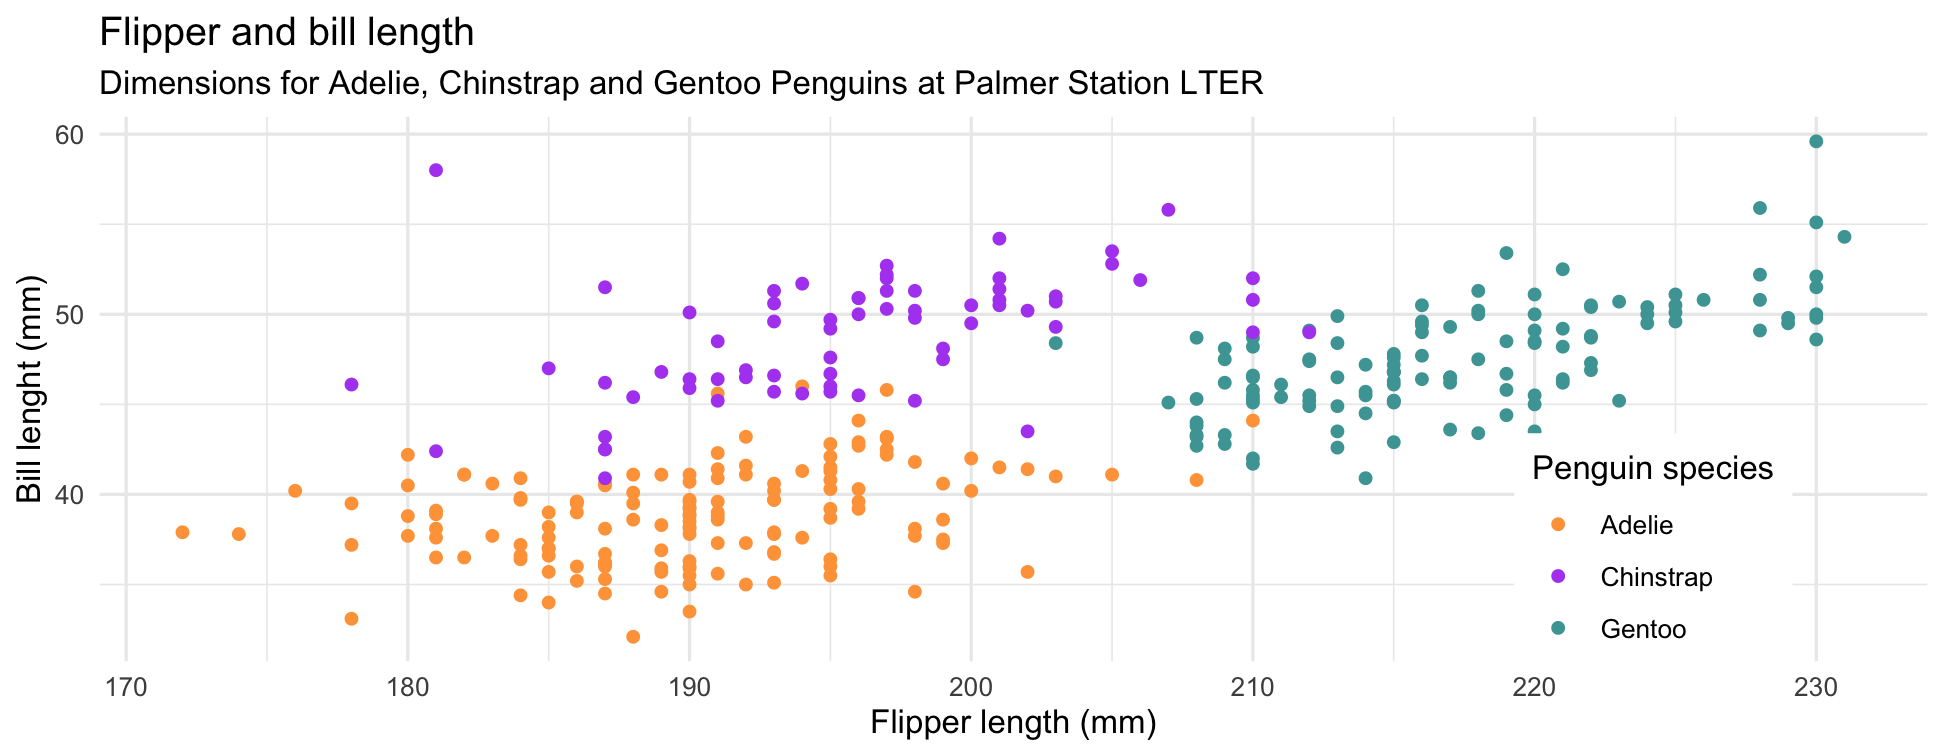
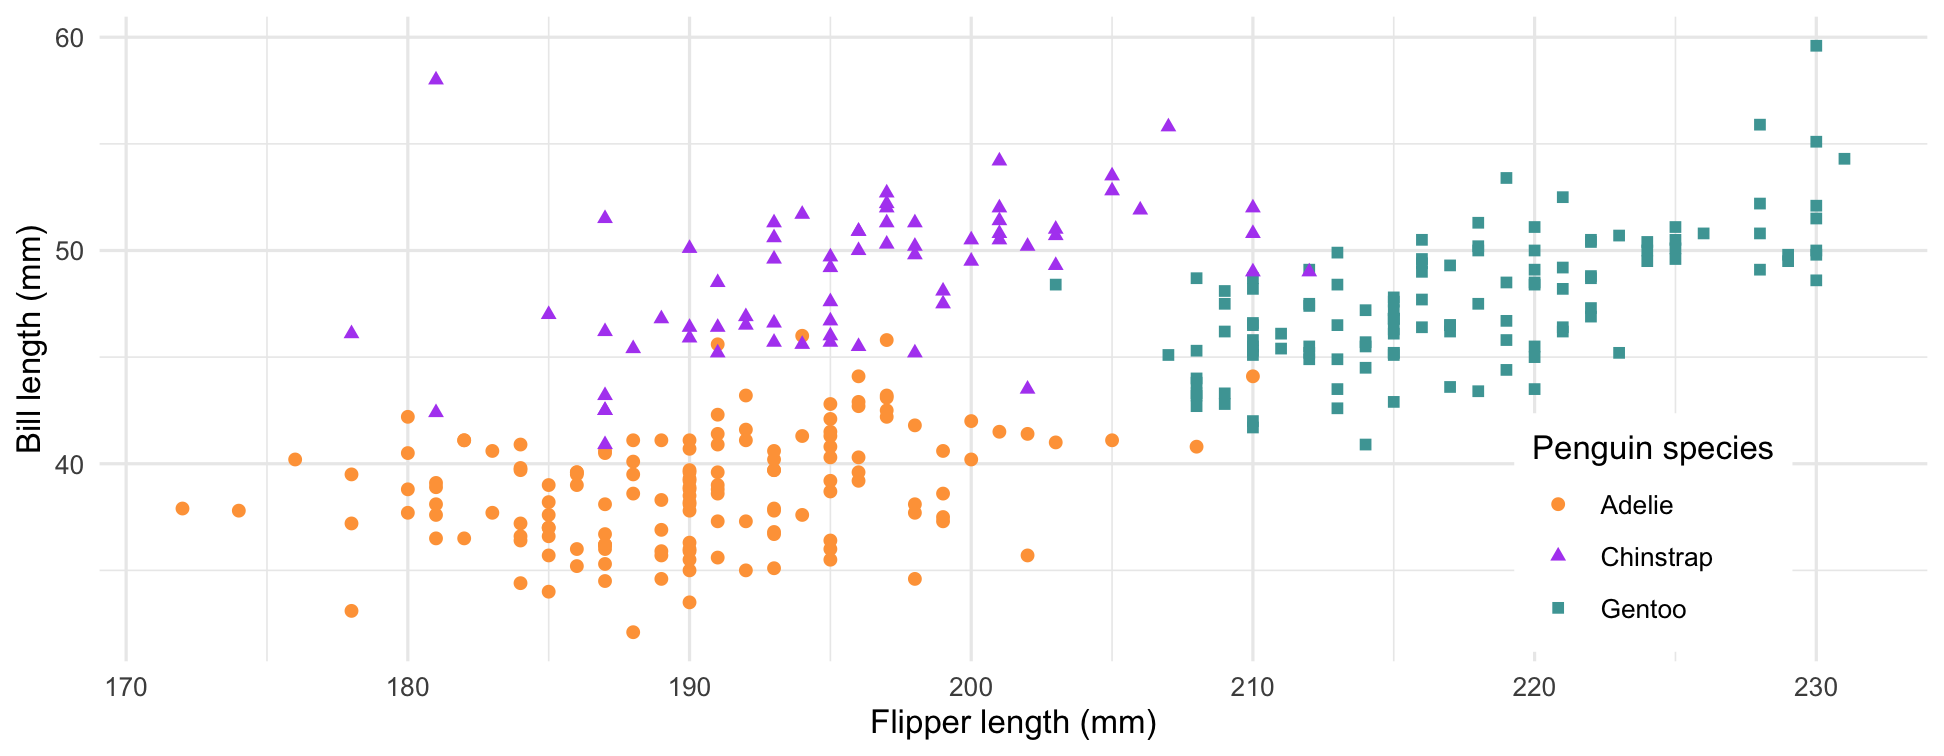
added placeholder for layouts & themes

diff --git a/index.html b/index.html
@@ -338,7 +338,7 @@ Here, we'll add our first reactive object to our app and establish a general Shi
 ---
 ### Let's first add some text to our app
 
-&lt;span style = 'font-size:80%;'&gt;We'll do this in the **UI** within `fluidPage()`, a layout function that sets up the basic visual structure of the page and scales components in real time to fill all available browser width. Add a title and subtitle to your app, save, and run:&lt;/span&gt;
+&lt;span style = 'font-size:80%;'&gt;We'll do this in the **UI** within `fluidPage()`, a layout function that sets up the basic visual structure of the page and scales components in real time to fill all available browser width. Add a title and subtitle to your app (*be sure to separate each with a comma, `,`*), save, and run:&lt;/span&gt;
 
 
 ```r
@@ -615,8 +615,9 @@ server &lt;- function(input, output) {
 library(palmerpenguins)
 library(tidyverse)
 
-penguin_scatterplot &lt;- ggplot(na.omit(penguins), 
-                              aes(x = flipper_length_mm, y = bill_length_mm, color = species, shape = species)) +
+ggplot(na.omit(penguins), 
+       aes(x = flipper_length_mm, y = bill_length_mm, 
+           color = species, shape = species)) +
   geom_point() +
   scale_color_manual(values = c("#FEA346", "#B251F1", "#4BA4A4")) +
   scale_shape_manual(values = c(19, 17, 15)) +
@@ -627,9 +628,7 @@ penguin_scatterplot &lt;- ggplot(na.omit(penguins),
         legend.background = element_rect(color = "white"))
 ```
 
-.center[
-&lt;img src="index_files/figure-html/unnamed-chunk-26-1.png" title="A scatterplot of penguin Bill length (mm) vs. Flipper length (mm) for Adelie (orange circles), Chinstrap (purple triangles), and Gentoo (green squares) penguins. For all species, bill length tends to increase with flipper length." alt="A scatterplot of penguin Bill length (mm) vs. Flipper length (mm) for Adelie (orange circles), Chinstrap (purple triangles), and Gentoo (green squares) penguins. For all species, bill length tends to increase with flipper length." width="60%" height="70%" /&gt;
-]
+&lt;img src="index_files/figure-html/unnamed-chunk-25-1.png" title="A scatterplot of penguin Bill length (mm) vs. Flipper length (mm) for Adelie (orange circles), Chinstrap (purple triangles), and Gentoo (green squares) penguins. For all species, bill length tends to increase with flipper length." alt="A scatterplot of penguin Bill length (mm) vs. Flipper length (mm) for Adelie (orange circles), Chinstrap (purple triangles), and Gentoo (green squares) penguins. For all species, bill length tends to increase with flipper length." width="60%" height="70%" style="display: block; margin: auto;" /&gt;
 
 ---
 ### &lt;span style = 'font-size:90%;'&gt;**Rule 2:** Build objects you want to display with `render*()`&lt;/span&gt;
@@ -657,10 +656,13 @@ server &lt;- function(input, output) {
   # render the scatter plot ----
 * output$bodyMass_scatterPlot &lt;- renderPlot({
 *     # plot
-*     ggplot(na.omit(penguins), aes(x = flipper_length_mm, y = bill_length_mm, color = species)) +
+*     ggplot(na.omit(penguins),
+*            aes(x = flipper_length_mm, y = bill_length_mm,
+*                color = species, shape = species)) +
 *       geom_point() +
 *       scale_color_manual(values = c("#FEA346", "#B251F1", "#4BA4A4")) +
-*       labs(x = "Flipper length (mm)", y = "Bill length (mm)", color = "Penguin species") +
+*       labs(x = "Flipper length (mm)", y = "Bill length (mm)",
+*            color = "Penguin species", shape = "Penguin species") +
 *       theme_minimal() +
 *       theme(legend.position = c(0.85, 0.2),
 *             legend.background = element_rect(color = "white"))
@@ -690,8 +692,8 @@ server &lt;- function(input, output) {
 
 
 ```r
-body_mass_dat &lt;- penguins %&gt;%
-  filter(body_mass_g %in% 3000:4000)
+body_mass_filtered &lt;- penguins %&gt;%
+  filter(body_mass_g %in% 3000:4000) 
 ```
 
 --
@@ -703,9 +705,9 @@ body_mass_dat &lt;- penguins %&gt;%
 
 ```r
 # plot new, filtered data
-penguin_scatterplot &lt;- ggplot(na.omit(body_mass_dat), 
-                              aes(x = flipper_length_mm, y = bill_length_mm, 
-                                  color = species, shape = species)) +
+ggplot(na.omit(body_mass_filtered), # plot `body_mass_filtered' df rather than 'penguins' df
+       aes(x = flipper_length_mm, y = bill_length_mm, 
+           color = species, shape = species)) +
   geom_point() +
   scale_color_manual(values = c("#FEA346", "#B251F1", "#4BA4A4")) +
   scale_shape_manual(values = c(19, 17, 15)) +
@@ -716,9 +718,7 @@ penguin_scatterplot &lt;- ggplot(na.omit(body_mass_dat),
         legend.background = element_rect(color = "white"))
 ```
 
-.center[
-&lt;img src="index_files/figure-html/unnamed-chunk-32-1.png" title="A scatterplot of penguin Bill length (mm) vs. Flipper length (mm) for Adelie (orange circles), Chinstrap (purple triangles), and Gentoo (green squares) penguins. For all species, bill length tends to increase with flipper length." alt="A scatterplot of penguin Bill length (mm) vs. Flipper length (mm) for Adelie (orange circles), Chinstrap (purple triangles), and Gentoo (green squares) penguins. For all species, bill length tends to increase with flipper length." width="60%" height="70%" /&gt;
-]
+&lt;img src="index_files/figure-html/unnamed-chunk-30-1.png" title="A scatterplot of penguin Bill length (mm) vs. Flipper length (mm) for Adelie (orange circles), Chinstrap (purple triangles), and Gentoo (green squares) penguins. For all species, bill length tends to increase with flipper length." alt="A scatterplot of penguin Bill length (mm) vs. Flipper length (mm) for Adelie (orange circles), Chinstrap (purple triangles), and Gentoo (green squares) penguins. For all species, bill length tends to increase with flipper length." width="60%" height="70%" style="display: block; margin: auto;" /&gt;
 
 ---
 ### Which part of our code needs to be updated when a user changes the slider range input?
@@ -836,6 +836,12 @@ And we saw that reactivity automatically occurs whenever we use an **input value
 ### **Coding Exercise:** Add another reactive widget to your app!
 
 [directions here]
+* add `library(DT)`
+
+* https://shiny.rstudio.com/articles/datatables.html
+* https://rstudio.github.io/DT/shiny.html
+* https://yihui.shinyapps.io/DT-rows/
+
 
 ---
 class: inverse, middle, center
@@ -858,7 +864,7 @@ Sharing your Shiny app with others isn't so easy when it just lives on your comp
 ---
 ### Deploy your app to shinyapps.io
 
-&lt;span style = 'font-size:80%;'&gt;Once your account has been authorized, run `rsconnect::deployApp()` in your console to deploy your app to shinyapps.io. Alternatively, you can click on the "Publish",&lt;img src="media/publish.png" alt="The word 'Publish' in black text with a small, black down facing arrow to its right. To the left of 'Publish' is a small blue circle icon with a split blue outer circle." style="display: inline-block; margin: 0; position: relative; top: 3px; width:60px;height:20px;"/&gt;, button in the top right corner of your app.&lt;/span&gt;
+&lt;span style = 'font-size:80%;'&gt;Once your account has been authorized, run `rsconnect::deployApp()` in your console to deploy your app to shinyapps.io. Alternatively, you can click on the "Publish",&lt;img src="media/publish.png" alt="The word 'Publish' in black text with a small, black down facing arrow to its right. To the left of 'Publish' is a small blue circle icon with a split blue outer circle." style="display: inline-block; margin: 0; position: relative; top: 3px; width:65px;height:20px;"/&gt;, button in the top right corner of your app.&lt;/span&gt;
 
 &lt;span style = 'font-size:80%;'&gt;Once deployed, a browser will open to your application. Mine can be found at: https://samanthacsik.shinyapps.io/myapp/&lt;/span&gt;
 
@@ -872,7 +878,7 @@ You will get this error if your app directory name has less than 4 characters lo
 ---
 ### The shinyapps.io dashboard
 
-&lt;span style = 'font-size:80%;'&gt;Your shinyapps.io dashboard provides tons of information about you application(s) metrics, instance (the virtualized server that your app is hosted on) and worker (a special type of R process that an Application Instance runs to service requests to an application) settings, plan management, and more. The free plan (the plan we're using here today) allows you to deploy **five** Shiny apps.&lt;/span&gt;
+&lt;span style = 'font-size:80%;'&gt;Your shinyapps.io dashboard provides tons of information about your application(s) metrics, instance (the virtualized server that your app is hosted on) and worker (a special type of R process that an Application Instance runs to service requests to an application) settings, plan management, and more. The free plan (the plan we're using here today) allows you to deploy **five** Shiny apps.&lt;/span&gt;
 
 .center[
 &lt;img src="media/shinyapps.io_dashboard.png" title="A view of a shinyapps.io dashboard" alt="A view of a shinyapps.io dashboard" width="70%" height="70%" /&gt;
@@ -884,6 +890,13 @@ You will get this error if your app directory name has less than 4 characters lo
 ### Other ways to host your Shiny apps
 
 [add info here]
+
+---
+class: inverse, center, middle
+
+## <svg aria-label="th-large" role="img" viewBox="0 0 512 512" style="height:1em;width:1em;vertical-align:-0.125em;margin-left:auto;margin-right:auto;font-size:inherit;fill:#93C6C2;overflow:visible;position:relative;"><title>th-large</title><path d="M296 32h192c13.255 0 24 10.745 24 24v160c0 13.255-10.745 24-24 24H296c-13.255 0-24-10.745-24-24V56c0-13.255 10.745-24 24-24zm-80 0H24C10.745 32 0 42.745 0 56v160c0 13.255 10.745 24 24 24h192c13.255 0 24-10.745 24-24V56c0-13.255-10.745-24-24-24zM0 296v160c0 13.255 10.745 24 24 24h192c13.255 0 24-10.745 24-24V296c0-13.255-10.745-24-24-24H24c-13.255 0-24 10.745-24 24zm296 184h192c13.255 0 24-10.745 24-24V296c0-13.255-10.745-24-24-24H296c-13.255 0-24 10.745-24 24v160c0 13.255 10.745 24 24 24z"/></svg> Layouts &amp; Themes
+
+[description here]
 
 ---
 class: inverse, center, middle
